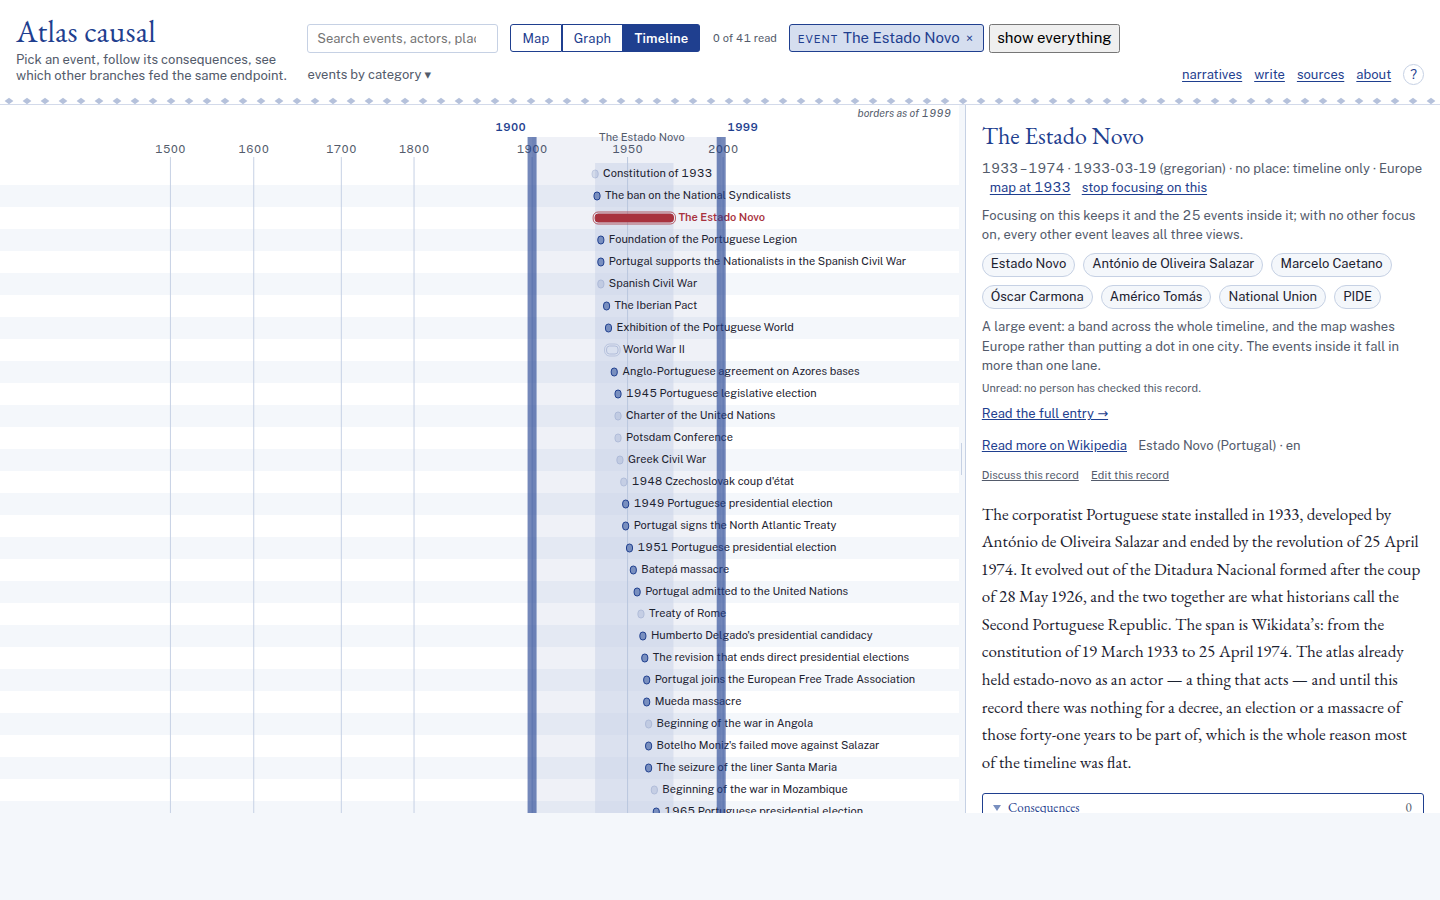
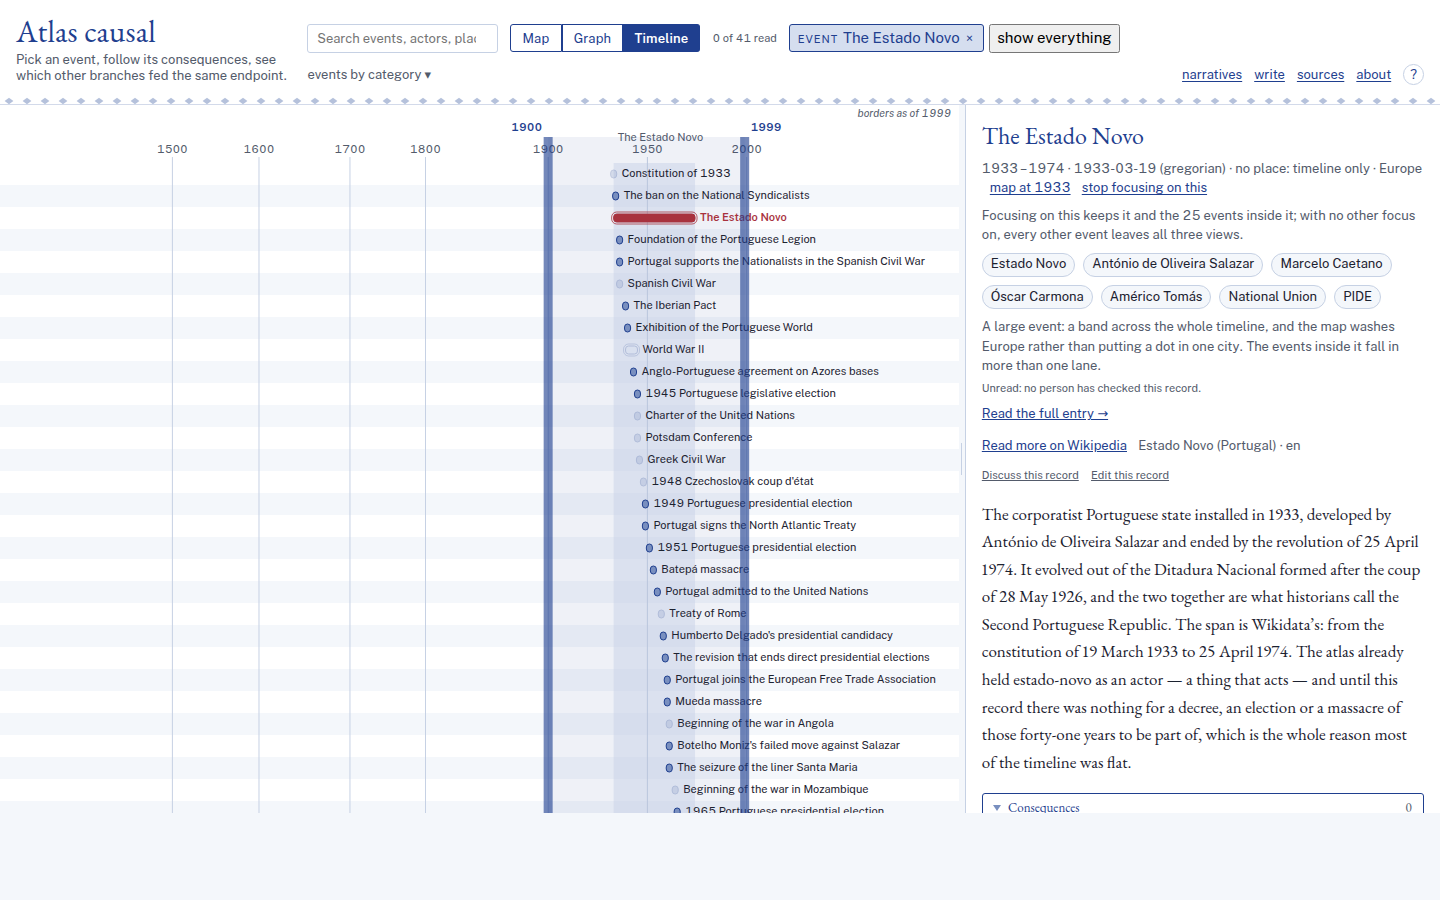
M77: the right gutter is a share of a narrow pane, and STATUS.md
A flat 96 px gutter took the phone band under a thumb width. The write-up:
the measurement before and after, what was chosen and why, first paint
against M76, and deviations 1109 to 1122.

diff --git a/src/timeline.js b/src/timeline.js
@@ -80,7 +80,14 @@ const LABEL_WIDTH = 120;
 // events were named into the pane's edge. Not the width of a title, which
 // would be a sixth of the drawing spent on air: the room a short one needs,
 // with a long one still running to the edge as every label on the map does.
+//
+// A share of the drawing under that, because on a phone it is not room going
+// spare: 96 px of a 390 px pane is a third of what is left after the left
+// gutter, and it took the window band — the one control on this view — under
+// the forty pixels a thumb needs (`tests/phone-browser.test.mjs`).
 const RIGHT_GUTTER = 96;
+const RIGHT_GUTTER_SHARE = 0.07;
+const rightGutter = (paneWidth) => Math.min(RIGHT_GUTTER, Math.round(paneWidth * RIGHT_GUTTER_SHARE));
 // Room above the lanes for three lines that must not sit on top of one
 // another: what the map's borders are dated to, then the two years the
 // window's handles are at, then the axis's own ticks. They used to share one
@@ -219,7 +226,7 @@ export function createTimeline(container, { atlas, state, createScale = createTi
   // know what overlaps; the height only once the lanes are known.
   const measure = () => {
     width = Math.max(container.clientWidth || 960, 320);
-    scale = createScale({ domain, range: [LABEL_WIDTH, width - RIGHT_GUTTER], counts, extent: atlas.extent });
+    scale = createScale({ domain, range: [LABEL_WIDTH, width - rightGutter(width)], counts, extent: atlas.extent });
     paneHeight = Math.max(0, container.clientHeight || 0);
   };
   const resize = () => {

diff --git a/STATUS.md b/STATUS.md
@@ -15512,6 +15512,316 @@ of one argument: the ring's heaviest events outrank the walk's lightest steps
 and take the room. The five edge types and three confidences are drawn the
 same whether an edge is a step of the walk or a neighbour of one.
 
+### What section 1 changed, and why that
+
+**The direction the owner gave is "fewer things always visible", and the
+measurement says what to take away.** It is not the number of labels — there
+were fourteen on a page of forty-one marks — it is that they were the wrong
+fourteen and half of them were not names. So three rules, in one place each.
+
+1. **A name is drawn whole or it is not drawn at all** (`src/graph-view/labels.js`,
+   new). The cut of M61 is gone from the drawing; what is left of M61 is its
+   arithmetic (`label-fit.js`: how wide a name is at this zoom, where the text
+   starts, the slice of the picture a label took at the world view). A name
+   that does not fit waits for the pointer, which is where the mark's own
+   `<title>` has always carried the whole of it — and now also a drawn label,
+   in a layer of its own over the picture, written while the pointer is on the
+   mark and rubbed out when it moves off. It is outside `render` and in no
+   render key: it is the reader's finger and not a fact about the picture.
+2. **With a lens on, the lens is what is named.** The candidates are
+   `workingSet`'s `lensFocus` — for a narrative, the walk — in the narrator's
+   own order, so the first step has first pick of the room. The ring is not
+   named at all. At rest nothing has been asked and the rule is the one it was:
+   the heaviest marks on screen, every one of them past `LABEL_ALL_ZOOM`.
+3. **With a lens on, the lens's own links are the ones in ink.** A line both of
+   whose ends are in the focus set is drawn as it was; every other line carries
+   `lens-near`, the class the ring's marks already carry, and is drawn at 0.16.
+   At rest no line is faint, because nothing has been asked.
+
+**What made rule 1 affordable is that a label may be written on a nearby free
+line, with a hairline tying it back to its mark.** This is the "or the layout
+makes room for it" of the brief, and the measurement is why it is that and not
+something else: 22 of the 28 steps of `who-was-buying` sit on **one line** of
+the layout (y = 266 of a field running 26 to 506), with the whole field free
+above and below. The room was already there; nothing reached it. A label is
+offered its own line first, then one above, then one below, out to eighteen
+lines inside a lens and two at rest — at rest a name three lines from its mark
+would be an anchor nobody could tie, and there is no walk for it to belong to.
+
+Two things were tried and rejected on the picture. **Writing a clipped label on
+the other side of its mark**: the graph's labels are packed against their
+neighbours, so the left is never free and the result was full names drawn over
+full names (worse than the cut). **Leaving the leaders out**: at 0.45 opacity
+and 0.75 px they were invisible in the screenshot, and a name a hundred units
+from its mark with nothing joining them is a name belonging to nothing.
+
+### The same measurement after
+
+Same instrument, same two narratives, same 1440 × 900.
+
+| | `who-was-buying` | `how-the-colonial-war-ended-the-regime` |
+|---|---:|---:|
+| nodes drawn | 41 (41) | 37 (37) |
+| labels drawn | 28 (14) | 12 (14) |
+| of them truncated | **0** (8) | **0** (1) |
+| of them naming a node outside the walk | **0** (3) | **0** (8) |
+| walk nodes carrying a label | **28 of 28** (11 of 28) | **12 of 12** (6 of 12) |
+| walk nodes named in full | **28 of 28** (4 of 28) | **12 of 12** (6 of 12) |
+| labels tied back by a leader | 22 | 0 |
+| lines drawn faint | **41 of 61** (0) | **28 of 43** (0) |
+| the note about the map's viewport | gone | gone |
+
+(M76's numbers in brackets.) Nothing was removed from the picture: the same
+marks and the same lines are drawn. What changed is which of them are read.
+
+`docs/screens/m77-graph-before.png` and `docs/screens/m77-graph.png` are the
+two pictures. Before: `The Atlantic…`, `Dutch B…`, `The Ab…`, `The Revolu…`,
+four full names out of twenty-eight, a paragraph of note across the top and
+sixty-one lines in five patterns and three inks. After: the twenty-eight steps
+of the argument, each one named, the twenty-one links between them in ink and
+the forty other lines behind them.
+
+### The graph at rest and with an event chosen
+
+The same rules, and the brief asks that they read well there too. At rest there
+is no lens, so rule 2 is the old one and rules 1 and 3 are the change: the
+heaviest marks on screen are still what is named, and what does not fit is not
+drawn rather than cut. That is **fewer labels at rest** and it is the point.
+With an event chosen (M65) the choice *is* a lens of one, so the event and its
+parts are what is named and their links are what is in ink — which is the
+picture the owner asked M65 for, read through the names.
+
+### Section 2: what the resting timeline looks like now
+
+`docs/screens/m77-timeline-before.png` and `docs/screens/m77-timeline.png`.
+
+**Every bar carries its title.** There is no stacking on the timeline any more
+— no `clusterPoints`, no `rect.bar.stack`, no `+n` — and the packing reserves
+the room a title needs beside its bar (`packRows`'s new `extra`), so two bars
+that do not overlap can never have two titles that do. The rows are as many as
+that takes: at the whole extent the repository's corpus asks for about
+seventy-five of them, the pane holds thirty-four at the 22 px floor, and the
+pane scrolls. A row never shrinks below that floor: a title at 14 px in a 14 px
+row has its ascenders in the row above, and the brief's rule is that a title
+never disappears to make room.
+
+Two things follow from that and are worth writing down. The scale now stops
+short of the right edge — 96 px, or seven per cent of the drawing where that is
+less — because the last century's events were being named into the pane's edge;
+a long title still runs to it, as a long label on the map does. And the rows no
+longer come down when the pane is short — `lanesThatFit` is gone — so
+`laneHeightFor` is the whole of the rule and it only ever *grows* a row into
+room going spare, as far as `LANE_MAX`.
+
+**A click on an umbrella opens it.** It needed no new mechanism: choosing an
+event has been a lens on it and its parts since M65, and the bar has been a
+click target since H4c. `docs/screens/m77-timeline-opened.png` is the Estado
+Novo opened — the regime's bar and the twenty-five events inside it, each with
+its own title, and nothing else. A click on the empty ground puts it down
+again, which is the one click back the brief asks for.
+
+At phone width the titles run to the edge of a 390 px drawing: there is not
+room for a bar, a scale and a name in 390 px, and the honest answer is that a
+reader on a phone reads the beginnings of the titles and narrows the window.
+`docs/screens/m77-timeline-phone.png`. That is a limit and not a regression —
+before this milestone there were no titles at all there.
+
+### Section 3: what grouping's removal took out
+
+`src/grouping.js` is gone. It was two things and only one of them was the
+grouping, so the file was split rather than deleted: the lens chips — one chip
+per focus with its own ×, "all of these" and "show everything" — are
+`src/lens-chips.js` now and are unchanged.
+
+What went with the picker: the `<select>` of four groupings and its panel of
+lanes to tick and reorder; the `group` and `lanes` state, and every line in
+`state.js` that parsed or wrote them; `GROUPS` in `vocab.js`; `lanesFor`,
+`availableLanes`, `laneExplain`, `LANE_CAP` and `OTHER_ID` in `lanes.js`;
+`bracketsIn` in `large.js` and the bracket the timeline drew with it;
+`lanesThatFit` in `timeline.js`; the "Drawn in the … lane" paragraph on the
+event card (`drawnHtml`) and the `lanes(s)` helper in `panel.js` that fed it;
+and twenty-two rules of `style.css`.
+
+What is left in `lanes.js` is the packing and `barBox` — which is what `none`,
+the default and what the atlas always opened on, always used. **The graph has
+no bands at all now**: `arrangementOf` passes an empty lane list, which is the
+one it always passed at rest, so `layoutGraph` draws one unnamed field.
+
+A `?group=actor&lanes=salazar,pide` in a link shared before today opens the
+atlas on the default rows, writes neither parameter back and raises no error —
+deviation 848's rule for every parameter this atlas has retired.
+
+### What first paint costs, against M76's numbers
+
+Median of nine cold loads of `?from=1900&to=1999` at 1440 × 900, cache off, one
+browser, one instrument, in one session: `origin/m0` (M76) in a worktree and
+this branch's head.
+
+| | M76 | M77 |
+| --- | ---: | ---: |
+| first contentful paint | 40 ms (36–88) | 40 ms (32–80) |
+| load event | 197 ms (189–252) | 206 ms (190–259) |
+| requests to that frame | 115 (115–116) | 116 (116–117) |
+| JavaScript files | 85 | **86** |
+| JavaScript bytes | 1,122,903 | **1,114,928** |
+| all bytes | 6,244,014 | **6,234,747** |
+| marks on that frame | 15 | 15 |
+
+**One more file and 7,975 fewer bytes.** The file is `graph-view/labels.js`;
+`grouping.js` became `lens-chips.js` and is a rename, so the net is one. The
+bytes are the grouping picker, its panel, the lane machinery and the dead CSS,
+less what the placer and the new comments add back. First contentful paint is
+the same number and the load event moved 9 ms inside a 60 ms spread; neither is
+a claim, and neither the placer nor the timeline's rows is reached before the
+core has landed, long after the first paint.
+
+### Tests
+
+`tests/m77.test.mjs` (11) and `tests/m77-browser.test.mjs` (6), both written
+before the behaviour they judge. The brief's seven, in order: every walk node
+named in full and no label cut (browser 1); nothing outside the walk named
+until the pointer is on it, and named while it is (browser 2); no note about
+the map's viewport, with the legend and Export still there (browser 3); every
+bar titled and no `+N` anywhere (browser 4); a bar with children narrowing to
+it and its children, each titled, and one click back (browser 5); no grouping
+control in the document and `?group=actor` opening the atlas with the default
+rows and no error (browser 6). The seventh — no test pins a count or a pixel —
+is a property of all seventeen: what is asserted is a name against its own
+record's name, a rectangle against its neighbour's, a class, a count of zero,
+and *more* or *fewer* rather than *n*.
+
+Changed first, as the brief requires:
+
+* `tests/state.test.mjs` — the three tests about `?group=` and `?lanes=`
+  became one about a retired parameter being read into nothing;
+* `tests/lanes.test.mjs` — fourteen tests about the named lanes removed, the
+  packing's own kept whole;
+* `tests/large.test.mjs` — the four bracket tests removed;
+* `tests/arrangement.test.mjs`, `tests/graph-layout.test.mjs`,
+  `tests/layout-worker.test.mjs` — the two that used `lanesFor` to build lanes
+  for `layoutGraph` build them by hand now, in four lines each;
+* `tests/timeline-rows.test.mjs` — rewritten: the row *count* is not a question
+  any more, and what is left is that a row grows into spare room as far as the
+  cap and never shrinks below the height a title needs;
+* `tests/timeline-browser.test.mjs` — the named-grouping test and the bracket
+  test removed; the relayout test moved to the fixtures, where the rows still
+  have room to grow; the glyph threshold read on the fixtures rather than under
+  a grouping; *on a short pane the floor holds and the pane scrolls* became the
+  ordinary case rather than the reader's-own-lane-list case;
+* `tests/m60-browser.test.mjs` — *with the lanes and the stacks it always drew*
+  became *and no stack, and no +n*;
+* `tests/graph-browser.test.mjs` — *grouping into bands crowds the picture*
+  removed; the merged-line test asks for the same window with no grouping;
+* `tests/phone-browser.test.mjs`, `tests/registry.test.mjs`,
+  `tests/render-key.test.mjs`, `tests/site.test.mjs` (through `CLAUDE.md`) —
+  the names and the vocabulary.
+
+171 suites: 1,680 assertions pure, 228 in a browser, 0 failing, 0 skipped.
+`node tools/validate.mjs --index`: 10,653 records, 0 errors, 238 warnings — the
+same counts as on `origin/m0`, since this milestone writes no record.
+
+### Deviations
+
+1109. **A graph label is never cut, at rest as well as inside a lens.** §1's
+      bullet is under the narrative heading and could have been read as a rule
+      for a lens alone. Two rules for one picture would mean a name that was
+      `The Ab…` at rest and whole under a lens, and the reader would have to
+      know which picture they were in to know whether a label was a name. It is
+      one rule, and at rest it means *fewer labels*, which is the sentence the
+      whole section is built on.
+
+1110. **A label may be written on a line other than its mark's, with a leader.**
+      The brief offers "the layout makes room for it (M61's rule) or it waits
+      for hover". Neither alone gets to §5's test 1: M61's rule is about size
+      on screen and makes no room, and hover for 24 of 28 steps is a walk the
+      reader cannot read. The room is in the layout — 22 of 28 marks on one
+      line with the field free above and below — and this is what reaches it.
+      The leader is a hairline in `--cobalt-soft` at 0.6 opacity; no new token
+      and no new value.
+
+1111. **The lens's labels are not capped by M61's `SLICE`.** The slice is the
+      share of the picture a label was allowed at the world view, and it is what
+      keeps a fifty-character title out of a picture of everything. Inside a
+      lens the reader has asked about these events by name; a walk whose steps
+      have long names is a walk with long names, and test 1 asks for all of them
+      in full. At rest the cap stands exactly as M61 left it.
+
+1112. **An edge is "the lens's" when both its ends are in the focus set, not
+      when it is a step of the narrative.** §1 says *its edges are the ones
+      drawn in ink*. Twenty-five of `who-was-buying`'s twenty-eight steps are
+      edges and the walk's events carry twenty-one links between them; inking
+      the twenty-five and greying the other four would be the picture claiming
+      that a link between two steps of the argument is not part of it. One rule
+      for every lens, and the narrative is the case it was written for.
+
+1113. **`src/grouping.js` was split rather than deleted.** §3 says the file
+      goes. Its back half is the lens chips, which are not the grouping and
+      which §4 leaves untouched — the chips are how a reader sees a lens is on
+      at all. They are `src/lens-chips.js` now, unchanged line for line, and
+      the container is `#lens-chips`.
+
+1114. **The event card's "Drawn in the … lane" paragraph went too.** §3 names
+      `main.js` and `lens.js` as the files that lose their imports and does not
+      mention the card. The paragraph stated which lane an event was drawn in
+      and by what rule; with one arrangement of unnamed rows there is no choice
+      to explain, and the sentence it printed for the default was *"Drawn in a
+      packed row: with no grouping the timeline fits the bars where they go"*,
+      which is now a description of the only thing that can happen.
+
+1115. **`bracketsIn` and the bracket went with the named lanes.** They were
+      drawn only where a parent's parts shared a *named* lane, which is now
+      never. What says an event has parts is the ring around its bar, on all
+      three views (`parts.js`), which is what M30c made it for.
+
+1116. **`packRows` keeps its `maxRows` and nothing passes one.** The timeline
+      is explicitly uncapped now. The parameter is kept because a caller with a
+      ceiling is a caller this pure function should still answer, and because
+      the branch is the one place the pending heap's own top is read — the
+      alternative was deleting a tested branch to remove a parameter.
+
+1117. **`?group=` was removed from a shot definition rather than the shot.**
+      `glyphs-map` was taken on `?fixtures=1&group=region&…`; the picture is of
+      the twelve symbols and not of the lanes, so the parameter went and the
+      shot was taken again.
+
+1118. **The screenshots were taken with `--only` and no other picture was
+      rewritten.** §6 asks for every other picture `tools/screens.mjs` rewrites
+      to be restored; taking only the six this milestone adds or changes is the
+      same end with nothing to restore, and it is what `--only` is for.
+
+1119. **The graph's phone shot is a lens on an actor and not the narrative.**
+      Opening a narrative opens its card, and on a phone an open card is a sheet
+      over the whole view (`phone.js`) — the picture would have been of the
+      sheet. A lens on one actor is the same rules at work with nothing open.
+
+1120. **The timeline redraws a frame after a resize rather than inside the
+      observer's callback.** The drawing is regularly taller than its pane now,
+      so the first drawing brings a scrollbar, the scrollbar changes the pane's
+      width, and a render inside the callback is the loop Chromium reports as
+      *ResizeObserver loop completed with undelivered notifications*. It always
+      settled in one turn and the picture was right either way; what it left was
+      a console error on an ordinary visit.
+
+1121. **The timeline's rings are drawn through a pool of their own.** They
+      shared the bars', and a bar leaving the packed rows for the layer of what
+      the reader is holding shifted every element after it by two — so a pooled
+      element that had been a bar came back as a ring and lost the `<title>` a
+      ring does not have: seventy-three titles removed and remade on a click
+      that changes one bar. Found by the churn assertion of
+      `tests/timeline-browser.test.mjs`, which M77's own labels made fail.
+
+1122. **The timeline's scale stops 96 px short of the right edge, or seven per
+      cent of the drawing where that is less.** It stopped 12 px short, which is
+      enough to keep the last year's bar off the edge and not enough for the
+      name beside it. Not the width of a title, which would be a sixth of the
+      drawing spent on air: the room a short one needs, with a long one still
+      running to the edge as every label on the map does. The share under it is
+      the phone: 96 px of a 390 px pane is a third of what is left after the
+      left gutter, and a flat 96 took the window band — the one control on that
+      view — from 44 px to 38, under the forty a thumb needs. Found by
+      `tests/phone-browser.test.mjs`, *the whole extent is legible on a phone*,
+      which is exactly what that assertion is there for.
+
 ## Milestones landed
 M6 started 2026-09-03T17:06:55Z by scheduled
 M6 done
